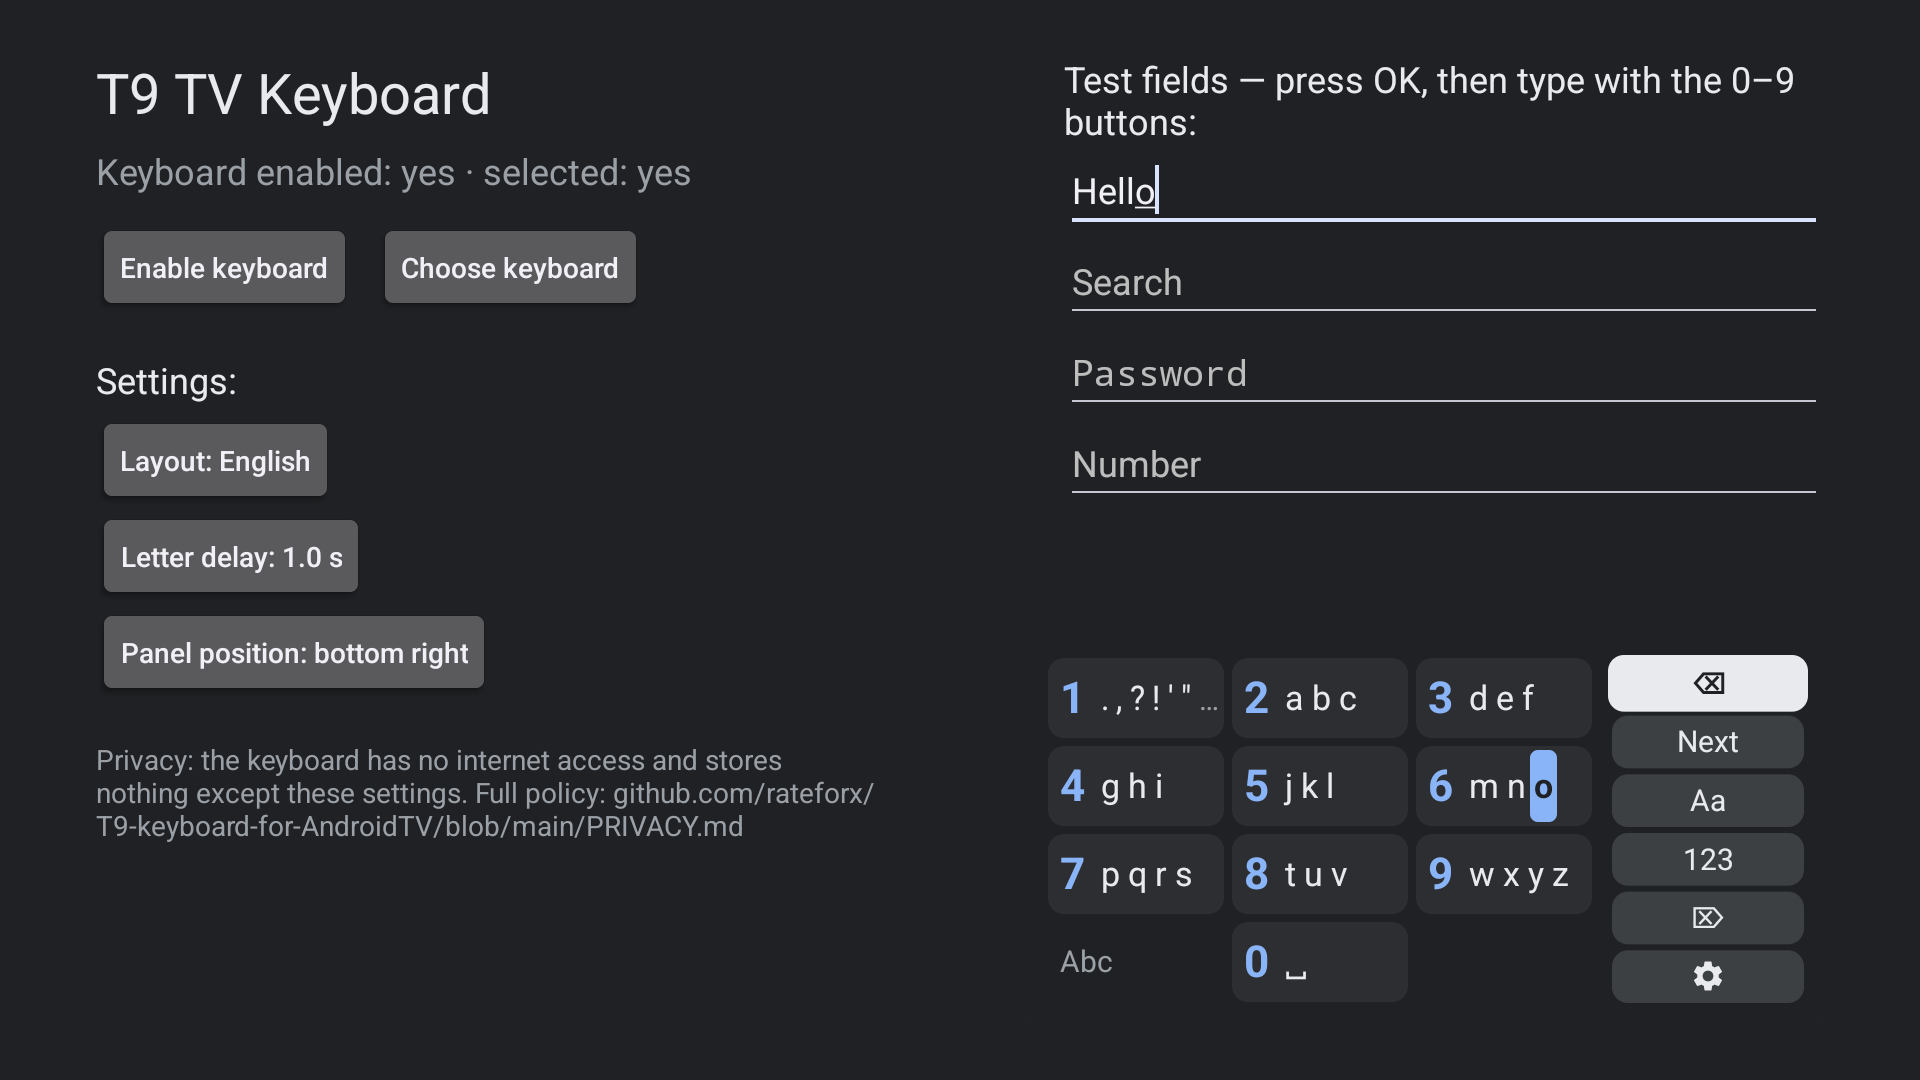
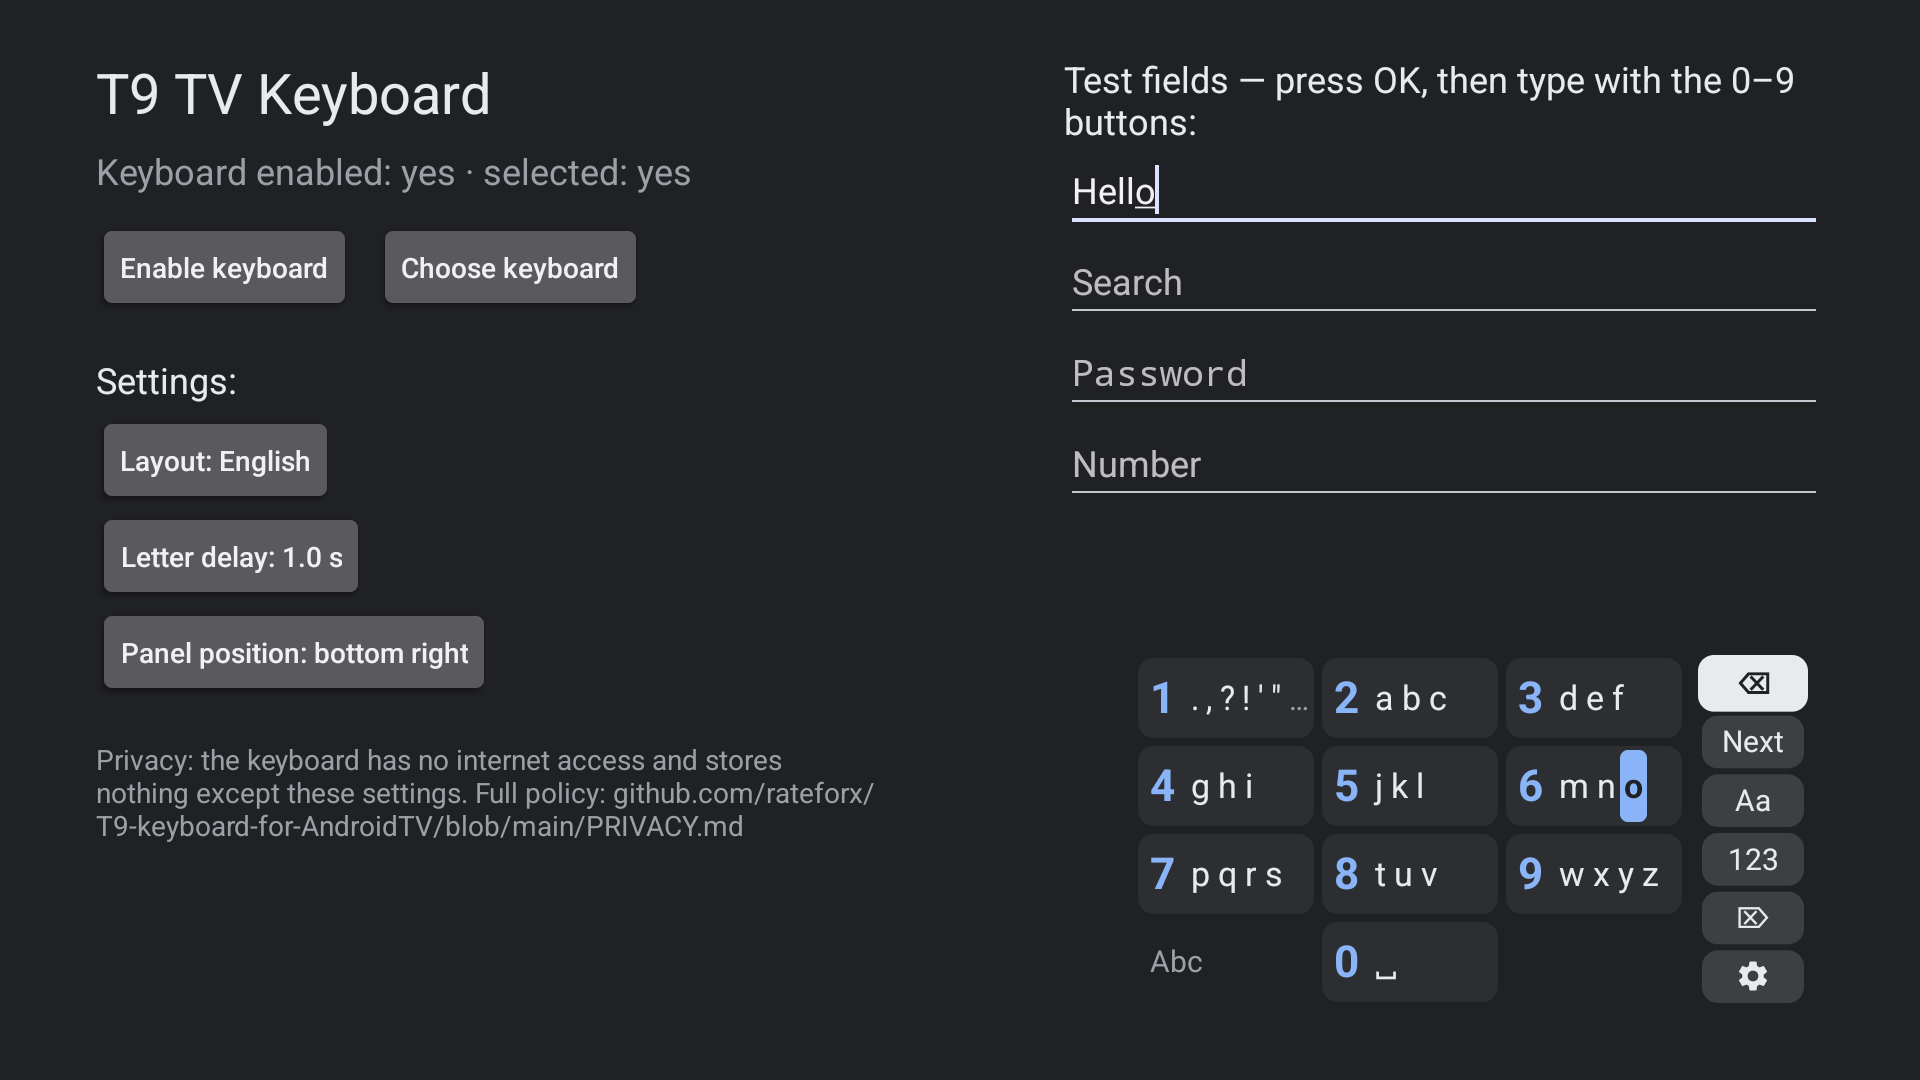
0.2.1: button column fits its widest label, English-only privacy policy
- The button column is as wide as its widest label (bold, plus padding),
  48-120 dp, instead of a fixed 96 dp; long action labels get an ellipsis.
- PRIVACY.md is English only.
- README screenshot shows the narrower panel.

Changed region(s): [[0.5312, 0.5806, 0.9375, 0.9472], [0.6562, 0.8861, 0.7188, 0.9167], [0.5625, 0.8861, 0.625, 0.9167]]

diff --git a/app/src/main/java/io/github/rateforx/t9tv/ime/KeypadView.kt b/app/src/main/java/io/github/rateforx/t9tv/ime/KeypadView.kt
@@ -35,7 +35,11 @@ class KeypadView(context: Context) : View(context) {
         private const val CELL_WIDTH_DP = 92f
         private const val KEY_INSET_DP = 2f // half the gap between key backgrounds
         private const val ROW_HEIGHT_DP = 44f
-        private const val COLUMN_WIDTH_DP = 96f
+        // The button column is as wide as its widest label (bold, as when highlighted) plus padding.
+        private const val COLUMN_PADDING_DP = 10f
+        private const val COLUMN_MIN_DP = 48f
+        private const val COLUMN_MAX_DP = 120f // longer action labels get an ellipsis
+        private const val ICON_SCALE = 0.72f // settings icon size relative to the button height
         private const val BUTTON_GAP_DP = 3f
         private const val MARGIN_H_DP = 48f // TV overscan-safe margins
         private const val MARGIN_V_DP = 27f
@@ -144,9 +148,19 @@ class KeypadView(context: Context) : View(context) {
     }
 
     fun setActionLabel(label: String) {
+        if (label == actionLabel) return
         actionLabel = label
-        updateActionButtonLabel()
+        if (width > 0) layoutPanel(width, height) // the column width follows the label
         invalidate()
+    }
+
+    private fun columnWidth(): Float {
+        var widest = 0f
+        for (label in arrayOf(actionLabel, "⌫", "⌦", "Aa", "123", "abc")) {
+            widest = maxOf(widest, buttonFocusTextPaint.measureText(label))
+        }
+        val icon = dp(ROW_HEIGHT_DP) * 4 / BUTTON_COUNT * ICON_SCALE
+        return (maxOf(widest, icon) + 2 * dp(COLUMN_PADDING_DP)).coerceIn(dp(COLUMN_MIN_DP), dp(COLUMN_MAX_DP))
     }
 
     private fun updateActionButtonLabel() {
@@ -178,7 +192,7 @@ class KeypadView(context: Context) : View(context) {
     private fun layoutPanel(w: Int, h: Int) {
         val pad = dp(PADDING_DP)
         val rowH = dp(ROW_HEIGHT_DP)
-        val colW = dp(COLUMN_WIDTH_DP)
+        val colW = columnWidth()
         val gap = dp(GAP_DP)
         val pw = minOf(2 * pad + 3 * dp(CELL_WIDTH_DP) + gap + colW, w - 2 * dp(MARGIN_H_DP))
         val ph = panelHeight()
@@ -304,7 +318,7 @@ class KeypadView(context: Context) : View(context) {
         }
         val p = if (focused) buttonFocusTextPaint else buttonTextPaint
         if (i == BTN_SETTINGS) {
-            val half = (rect.height() * 0.36f).toInt()
+            val half = (rect.height() * ICON_SCALE / 2).toInt()
             val cx = rect.centerX().toInt()
             val cy = rect.centerY().toInt()
             settingsIcon.setBounds(cx - half, cy - half, cx + half, cy + half)

diff --git a/PRIVACY.md b/PRIVACY.md
@@ -40,46 +40,3 @@ If this policy changes, the new version will be published at this address with a
 Questions: open an issue at
 <https://github.com/rateforx/T9-keyboard-for-AndroidTV/issues>.
 
----
-
-# Polityka prywatności — T9 TV Keyboard
-
-*Ostatnia aktualizacja: 19 listopada 2026*
-
-T9 TV Keyboard to klawiatura ekranowa (metoda wprowadzania) dla Android TV. Jak każda klawiatura
-widzi to, co piszesz. Poniżej opisujemy, co się z tym dzieje.
-
-## W skrócie
-
-**Aplikacja nie zbiera, nie zapisuje i nie udostępnia żadnych Twoich danych.** Nie ma dostępu do
-internetu, więc nic, co wpiszesz, nie może przez nią opuścić telewizora.
-
-## Szczegóły
-
-- **Brak dostępu do internetu.** Aplikacja nie prosi o uprawnienie `INTERNET` ani o żadne inne.
-  Sam Android blokuje jej wysyłanie czegokolwiek przez sieć.
-- **Wpisywany tekst nie jest zapisywany.** Znaki trafiają prosto do aplikacji, w której piszesz.
-  Klawiatura pamięta tylko jeden znak, który właśnie wybierasz (podkreśloną literę multi-tap),
-  i to przez około sekundę.
-- **Brak logów tego, co piszesz.** Wersje release nie zapisują w logach wciśnięć klawiszy ani tekstu.
-- **Co jest zapisywane na telewizorze:** tylko wybrane przez Ciebie ustawienia klawiatury: układ
-  klawiszy, czas na literę i pozycja panelu. Zostają w prywatnej pamięci aplikacji na telewizorze,
-  nie trafiają do kopii zapasowej w chmurze (kopia zapasowa Androida jest dla tej aplikacji
-  wyłączona) i znikają po odinstalowaniu aplikacji.
-- **Bez analityki, reklam, raportów błędów i bibliotek zewnętrznych.** Aplikacja korzysta tylko
-  z frameworka Androida.
-- **Dzieci.** Aplikacja nie zbiera danych od nikogo, także od dzieci.
-
-## Otwarty kod
-
-Pełny kod źródłowy jest publiczny na licencji GPL-3.0, więc wszystko powyżej można sprawdzić:
-<https://github.com/rateforx/T9-keyboard-for-AndroidTV>
-
-## Zmiany
-
-Jeśli polityka się zmieni, nowa wersja zostanie opublikowana pod tym adresem z nową datą.
-
-## Kontakt
-
-Pytania: zgłoś issue na
-<https://github.com/rateforx/T9-keyboard-for-AndroidTV/issues>.
